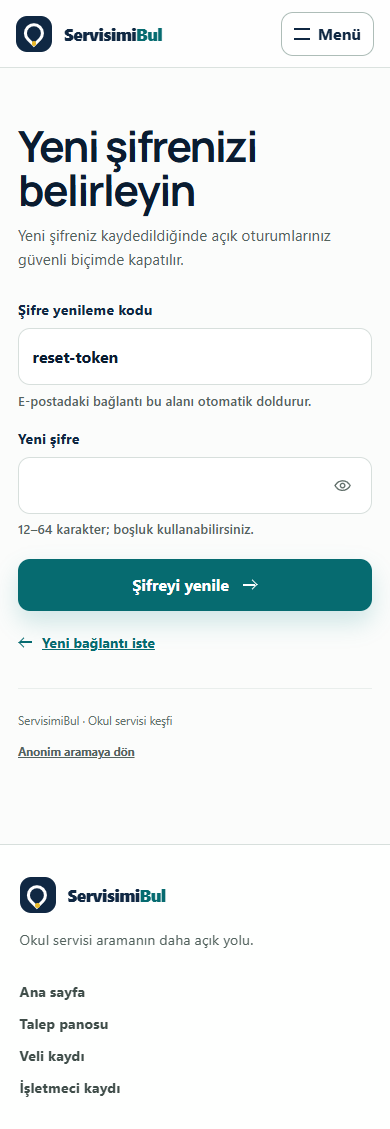
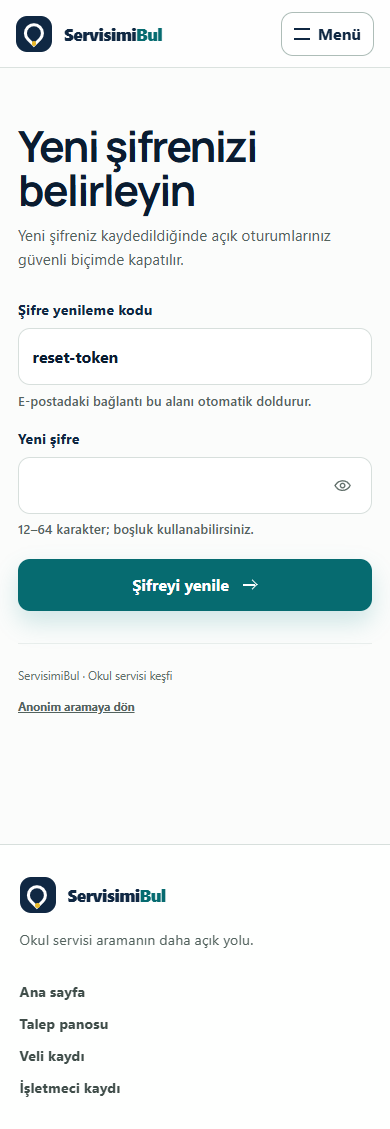
fix(auth): remove the new-link action from reset password
Backend reset links carry only a token, so A08 cannot know which login
the person came from. A07 without `from` returns to the operator login,
which would send a parent to the wrong page, so drop the optional link.

Refs #148

Changed region(s): [[0.0308, 0.558, 0.4308, 0.682]]

diff --git a/servisimibul-frontend/src/features/auth/AuthPages.tsx b/servisimibul-frontend/src/features/auth/AuthPages.tsx
@@ -583,57 +583,45 @@ export function ResetPasswordPage() {
           </div>
         </div>
       ) : (
-        <>
-          <form
-            className="form-stack"
-            onSubmit={handleSubmit(submit)}
-            noValidate
+        <form className="form-stack" onSubmit={handleSubmit(submit)} noValidate>
+          <FormField
+            label="Şifre yenileme kodu"
+            hint="E-postadaki bağlantı bu alanı otomatik doldurur."
+            error={errors.token?.message}
+            input={
+              <input autoComplete="one-time-code" {...register('token')} />
+            }
+          />
+          <FormField
+            label="Yeni şifre"
+            hint="12–64 karakter; boşluk kullanabilirsiniz."
+            error={errors.newPassword?.message}
+            endAction={
+              <PasswordVisibilityButton
+                visible={showPassword}
+                onToggle={() => setShowPassword((visible) => !visible)}
+              />
+            }
+            input={
+              <input
+                type={showPassword ? 'text' : 'password'}
+                autoComplete="new-password"
+                {...register('newPassword')}
+              />
+            }
+          />
+          <FormError message={formError} />
+          <button
+            className="primary-button auth-submit"
+            disabled={isSubmitting}
+            type="submit"
           >
-            <FormField
-              label="Şifre yenileme kodu"
-              hint="E-postadaki bağlantı bu alanı otomatik doldurur."
-              error={errors.token?.message}
-              input={
-                <input autoComplete="one-time-code" {...register('token')} />
-              }
-            />
-            <FormField
-              label="Yeni şifre"
-              hint="12–64 karakter; boşluk kullanabilirsiniz."
-              error={errors.newPassword?.message}
-              endAction={
-                <PasswordVisibilityButton
-                  visible={showPassword}
-                  onToggle={() => setShowPassword((visible) => !visible)}
-                />
-              }
-              input={
-                <input
-                  type={showPassword ? 'text' : 'password'}
-                  autoComplete="new-password"
-                  {...register('newPassword')}
-                />
-              }
-            />
-            <FormError message={formError} />
-            <button
-              className="primary-button auth-submit"
-              disabled={isSubmitting}
-              type="submit"
-            >
-              <span>{isSubmitting ? 'Kaydediliyor…' : 'Şifreyi yenile'}</span>
-              {!isSubmitting && (
-                <span className="auth-arrow" aria-hidden="true" />
-              )}
-            </button>
-          </form>
-          <p className="auth-back-link">
-            <Link to="/forgot-password" viewTransition>
-              <span className="auth-arrow back" aria-hidden="true" />
-              Yeni bağlantı iste
-            </Link>
-          </p>
-        </>
+            <span>{isSubmitting ? 'Kaydediliyor…' : 'Şifreyi yenile'}</span>
+            {!isSubmitting && (
+              <span className="auth-arrow" aria-hidden="true" />
+            )}
+          </button>
+        </form>
       )}
     </AuthFrame>
   )

diff --git a/servisimibul-frontend/e2e/ui-fidelity-10-auth.spec.ts b/servisimibul-frontend/e2e/ui-fidelity-10-auth.spec.ts
@@ -58,14 +58,25 @@ for (const viewport of viewports) {
         await expect(
           page.getByLabel('Yeni şifre', { exact: true }),
         ).toHaveAttribute('type', 'password')
-        await expect(
-          page.getByRole('link', { name: 'Yeni bağlantı iste' }),
-        ).toHaveAttribute('href', '/forgot-password')
+        await expect(page.locator('a[href^="/forgot-password"]')).toHaveCount(0)
       }
 
       await assertAccessibleAndContained(page)
       await capture(page, `${route.id}-${viewport.name}`, viewport.name)
     }
+  })
+}
+
+for (const role of ['parent', 'operator'] as const) {
+  test(`A07 returns a ${role} to the login that opened recovery`, async ({
+    page,
+  }) => {
+    await page.goto(`/${role}/login`)
+    await page.getByRole('link', { name: 'Şifremi unuttum' }).click()
+    await expect(page).toHaveURL(`/forgot-password?from=${role}`)
+
+    await page.getByRole('link', { name: 'Giriş sayfasına dön' }).click()
+    await expect(page).toHaveURL(`/${role}/login`)
   })
 }
 

diff --git a/servisimibul-frontend/src/features/auth/AuthPages.test.tsx b/servisimibul-frontend/src/features/auth/AuthPages.test.tsx
@@ -393,9 +393,21 @@ describe('parent account onboarding', () => {
     expect(screen.getByLabelText('Şifre yenileme kodu')).toHaveValue(
       'expired-token',
     )
+  })
+
+  it('offers no role-guessing recovery link when the reset link carries only a token', async () => {
+    renderRoute('/reset-password?token=reset-token')
+
+    expect(await screen.findByLabelText('Şifre yenileme kodu')).toHaveValue(
+      'reset-token',
+    )
     expect(
-      screen.getByRole('link', { name: 'Yeni bağlantı iste' }),
-    ).toHaveAttribute('href', '/forgot-password')
+      screen
+        .getAllByRole('link')
+        .filter((link) =>
+          link.getAttribute('href')?.startsWith('/forgot-password'),
+        ),
+    ).toEqual([])
   })
 
   it('returns a parent to notifications but rejects an external URL', async () => {

diff --git a/docs/06_PROGRESS.md b/docs/06_PROGRESS.md
@@ -878,9 +878,9 @@ Never mark tasks done because code was generated: verification and review requir
 
 - Branch: `feat/issue-148-password-recovery-ui`; PR #174; GitHub issues #148 and #123. `/forgot-password` and `/reset-password` now use the shared `AuthFrame` composition of A01–A06, with the approved image panel on desktop, the single-column form on smaller widths, full-width arrow submit actions, and a back link under the form.
 - Request paths, the non-enumerating confirmation text, token prefill, validation, password policy, CSRF, session revocation copy, and backend error display are unchanged. The Manus demo copy, 8-character hint, and confirm-password field are prototype-only and were not copied; the visible reset-code field stays because the production flow reads and validates it.
-- Two additions use existing production capabilities: the shared password visibility button on the new-password field and a `Yeni bağlantı iste` link to the existing `/forgot-password` route. The shared visibility button is now vertically centered, which also corrects it on A02–A05.
+- One addition uses an existing production capability: the shared password visibility button on the new-password field, now vertically centered, which also corrects it on A02–A05. The Manus `Yeni bağlantı iste` link was removed after review: backend reset links carry only `token`, so A08 has no trustworthy origin, and A07 without `from` returns to the operator login, which would misdirect parents.
 - Before/after desktop and mobile captures plus A07 validation/success and A08 rejected-token/success states are under `docs/screenshots/ui-fidelity-10/`. API responses in those states are mocked, so they prove the UI handling, not email delivery; delivery remains disabled and unverified.
-- Frontend ESLint, strict TypeScript, the Vite production build, scoped Prettier, and the auth Vitest file (29/29) passed. The new Playwright spec passed 9/9 at 1440, 768, 390, and 320 pixels including WCAG 2.2 AA, overflow, and keyboard order; the complete mocked Chromium suite passed 61/61 before the final CSS alignment fix, and the A01–A08 auth specs passed again after it.
+- Frontend ESLint, strict TypeScript, the Vite production build, Prettier, and `git diff --check` passed. The auth Vitest file passed 30/30 and the complete serial Vitest suite passed 139/139, including the demand-feedback test that is known to be unstable. The new Playwright spec passed 11/11 at 1440, 768, 390, and 320 pixels including WCAG 2.2 AA, overflow, keyboard order, and parent/operator login return, and the complete mocked Chromium suite passed 63/63.
 - No backend source, API contract, migration, dependency, lockfile, Supabase state, credential, or production configuration changed.
 
 ## Verified AUDIT-F8 inactive demand reopening evidence — 2026-10-31
